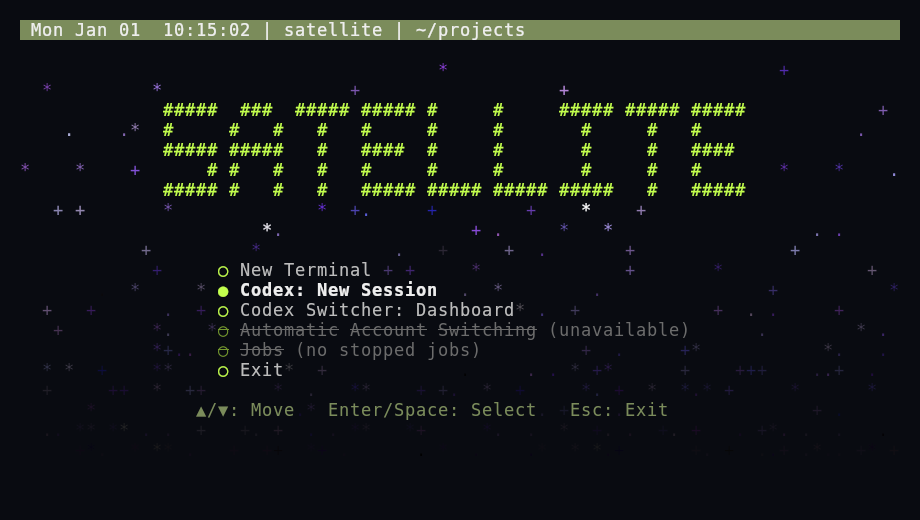
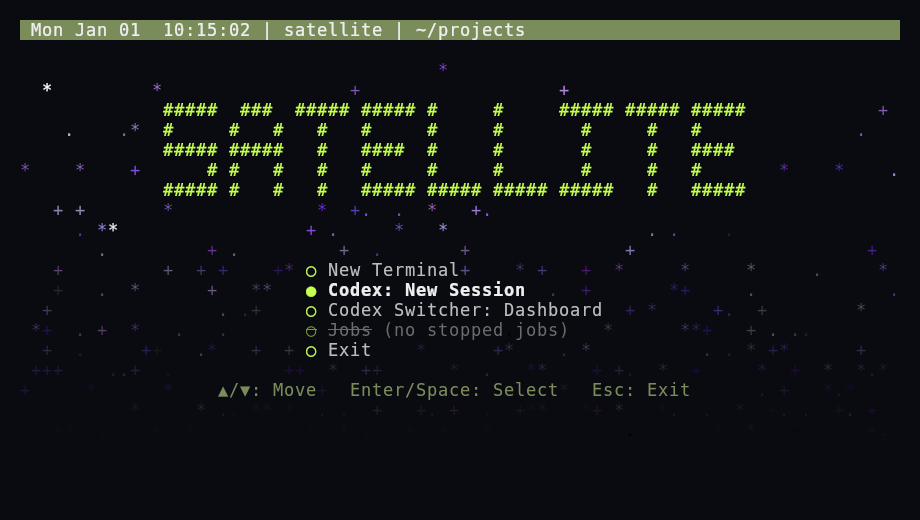
Fix preview UTF-8 arrows and hide switching placeholder

diff --git a/README.md b/README.md
@@ -41,10 +41,9 @@ available on each screen.
   lets you resume, rename, or terminate each session. The selected session has a
   live uptime; its bracketed account label comes from Codex Switcher when
   available. **Codex: Resume** opens the most recently used session.
-- **Codex Switcher: Dashboard** opens account monitoring and manual moves. Its
-  automatic switching indicator remains unavailable until the switcher supports
-  managed launches. New sessions here run Codex directly using your current
-  configuration; the dashboard does not choose their account.
+- **Codex Switcher: Dashboard** opens account monitoring and manual moves. New
+  sessions launched here run Codex using your current configuration; the
+  dashboard does not choose their account.
 - **Jobs** manages stopped jobs from this shell. It is unavailable when none
   exist.
 
